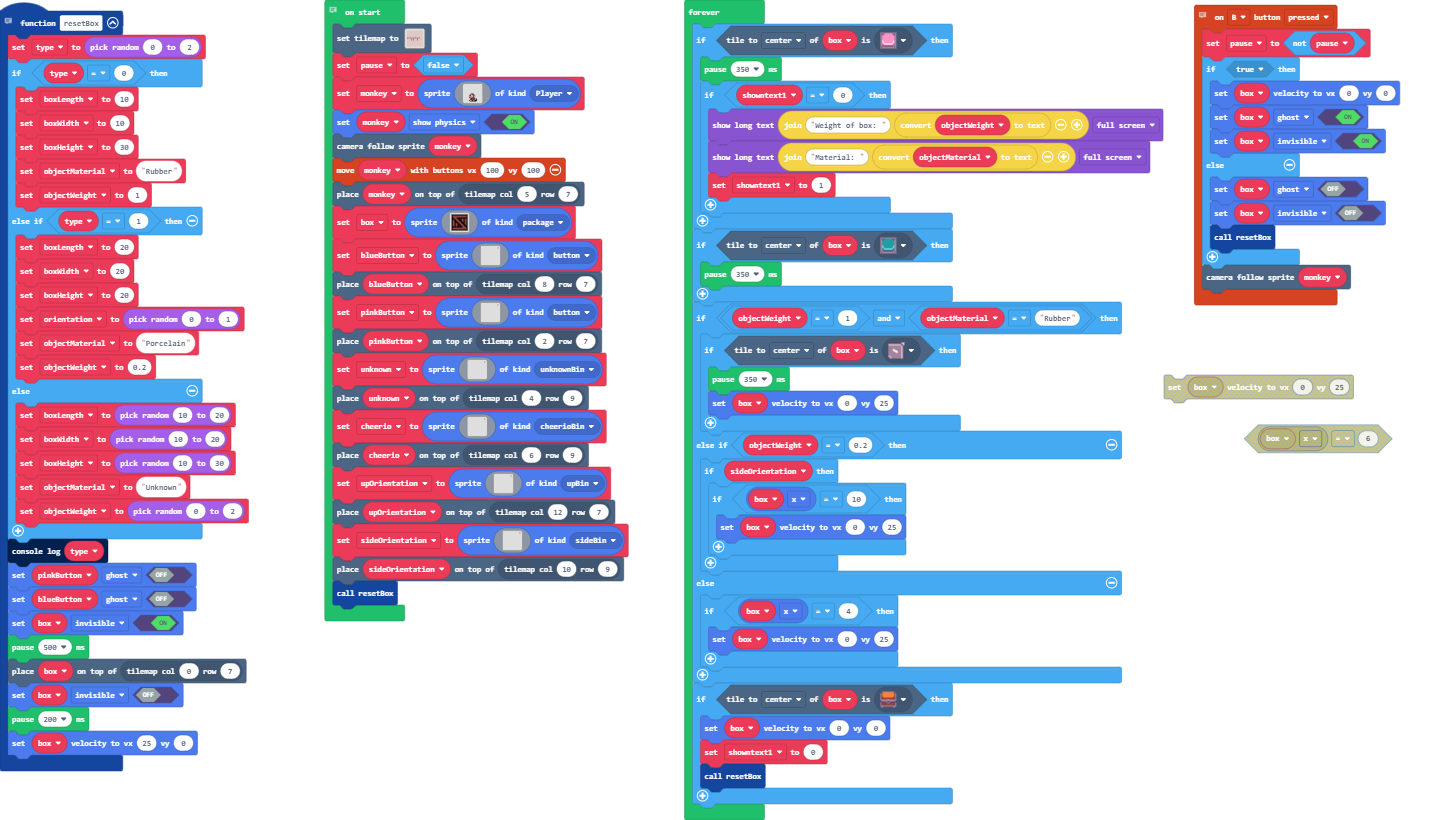
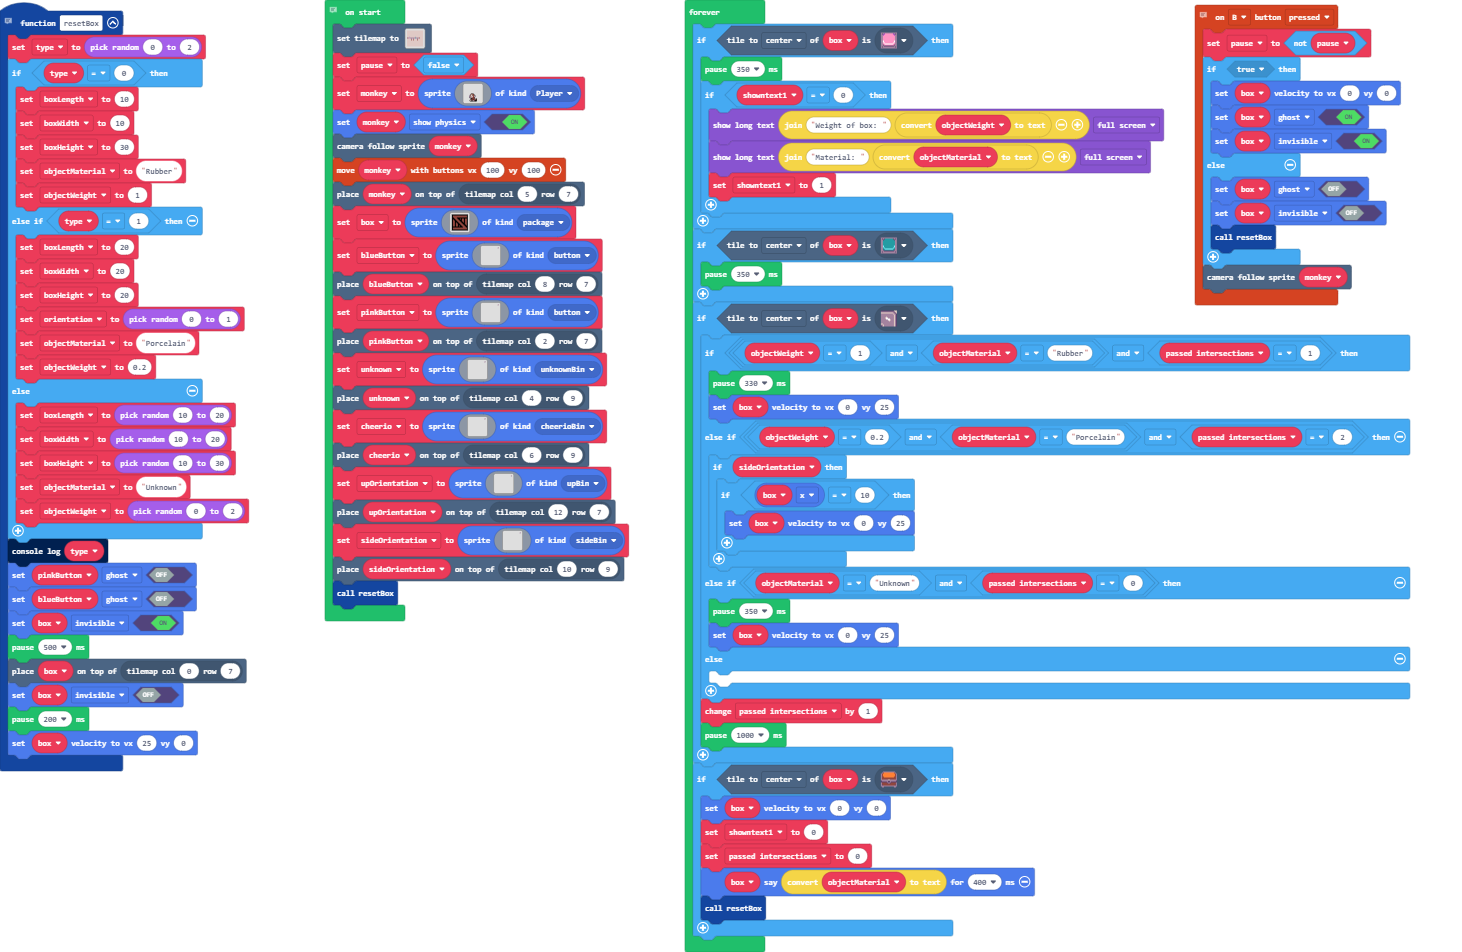
Update main.blocks, main.ts

diff --git a/main.ts b/main.ts
@@ -56,6 +56,7 @@ function resetBox () {
     box.setVelocity(25, 0)
 }
 // Create and place game map and objects
+let passed_intersections = 0
 let showntext1 = 0
 let orientation = 0
 let objectWeight = 0
@@ -271,25 +272,30 @@ forever(function () {
     if (box.tileKindAt(TileDirection.Center, sprites.dungeon.buttonTeal)) {
         pause(350)
     }
-    if (objectWeight == 1 && objectMaterial == "Rubber") {
-        if (box.tileKindAt(TileDirection.Center, myTiles.tile2)) {
+    if (box.tileKindAt(TileDirection.Center, myTiles.tile2)) {
+        if (objectWeight == 1 && objectMaterial == "Rubber" && passed_intersections == 1) {
+            pause(330)
+            box.setVelocity(0, 25)
+        } else if (objectWeight == 0.2 && objectMaterial == "Porcelain" && passed_intersections == 2) {
+            if (sideOrientation) {
+                if (box.x == 10) {
+                    box.setVelocity(0, 25)
+                }
+            }
+        } else if (objectMaterial == "Unknown" && passed_intersections == 0) {
             pause(350)
             box.setVelocity(0, 25)
+        } else {
+        	
         }
-    } else if (objectWeight == 0.2) {
-        if (sideOrientation) {
-            if (box.x == 10) {
-                box.setVelocity(0, 25)
-            }
-        }
-    } else {
-        if (box.x == 4) {
-            box.setVelocity(0, 25)
-        }
+        passed_intersections += 1
+        pause(1000)
     }
     if (box.tileKindAt(TileDirection.Center, sprites.dungeon.chestClosed)) {
         box.setVelocity(0, 0)
         showntext1 = 0
+        passed_intersections = 0
+        box.say(convertToText(objectMaterial), 400)
         resetBox()
     }
 })
